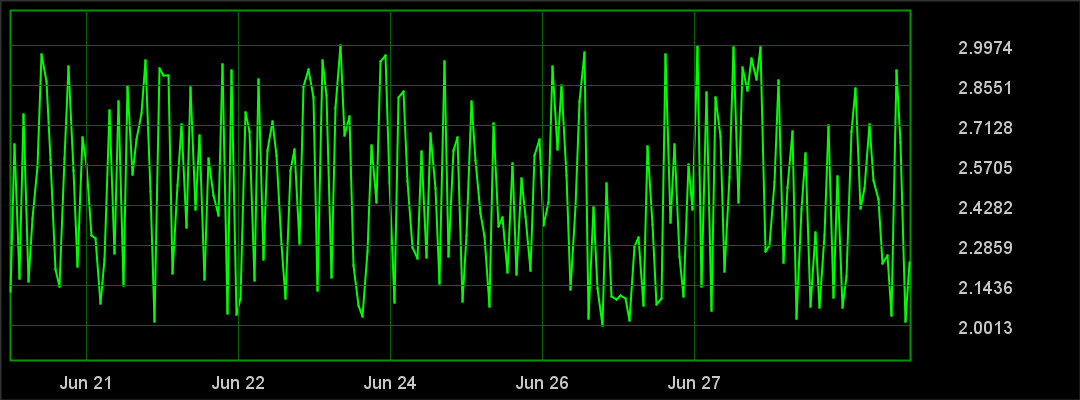
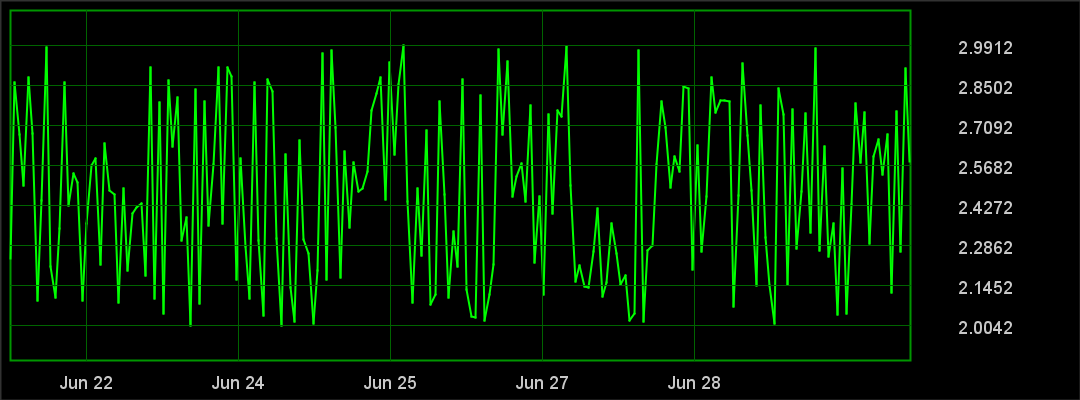
currently not working chart console buttons deleted

diff --git a/src/main/java/frontend/views/utilities/ChartConsoleGenerator.java b/src/main/java/frontend/views/utilities/ChartConsoleGenerator.java
@@ -42,22 +42,22 @@ public class ChartConsoleGenerator {
             chartControlButtons.add(button);
         }
 
-        Button moveLeft = new Button("<-");
-        Button moveRight = new Button("->");
-        Button moveMoreLeft = new Button("<<");
-        Button moveMoreRight = new Button(">>");
+        //Button moveLeft = new Button("<-");
+        //Button moveRight = new Button("->");
+        //Button moveMoreLeft = new Button("<<");
+        //Button moveMoreRight = new Button(">>");
         Button resetView = new Button("RESET");
 
-        moveLeft.addClickListener(e -> this.mainView.moveLeft());
-        moveRight.addClickListener(e -> this.mainView.moveRight());
-        moveMoreLeft.addClickListener(e -> this.mainView.moveMoreLeft());
-        moveMoreRight.addClickListener(e -> this.mainView.moveMoreRight());
+        //moveLeft.addClickListener(e -> this.mainView.moveLeft());
+        //moveRight.addClickListener(e -> this.mainView.moveRight());
+        //moveMoreLeft.addClickListener(e -> this.mainView.moveMoreLeft());
+        //moveMoreRight.addClickListener(e -> this.mainView.moveMoreRight());
         resetView.addClickListener(e -> this.mainView.resetView());
 
-        chartControlButtons.add(moveLeft);
-        chartControlButtons.add(moveRight);
-        chartControlButtons.add(moveMoreLeft);
-        chartControlButtons.add(moveMoreRight);
+        //chartControlButtons.add(moveLeft);
+        //chartControlButtons.add(moveRight);
+        //chartControlButtons.add(moveMoreLeft);
+        //chartControlButtons.add(moveMoreRight);
         chartControlButtons.add(resetView);
 
         return chartControlButtons;

diff --git a/src/main/java/frontend/views/utilities/AvailableViews.java b/src/main/java/frontend/views/utilities/AvailableViews.java
@@ -8,14 +8,14 @@ import java.util.Arrays;
 import java.util.List;
 
 public class AvailableViews {
-    private int defaultViewIndex = 0;
+    private int defaultViewIndex = 3;
 
     private List<View> views = new ArrayList<>(Arrays.asList(
             new View("Day",24,PointTimeFrame.H1, ViewTimeFrame.D1),
-            new View("Week",31, PointTimeFrame.H5, ViewTimeFrame.W1),
-            new View("Month",30, PointTimeFrame.D1, ViewTimeFrame.M1),
-            new View("Year", 52, PointTimeFrame.W1, ViewTimeFrame.Y1),
-            new View("All", 500, PointTimeFrame.M1, ViewTimeFrame.MAX)));
+            new View("Week",168, PointTimeFrame.H1, ViewTimeFrame.W1),
+            new View("Month",144, PointTimeFrame.H5, ViewTimeFrame.M1),
+            new View("Year", 365, PointTimeFrame.D1, ViewTimeFrame.Y1),
+            new View("All", 500, PointTimeFrame.W1, ViewTimeFrame.MAX)));
 
     public View getDefaultView() {
         return views.get(defaultViewIndex);
